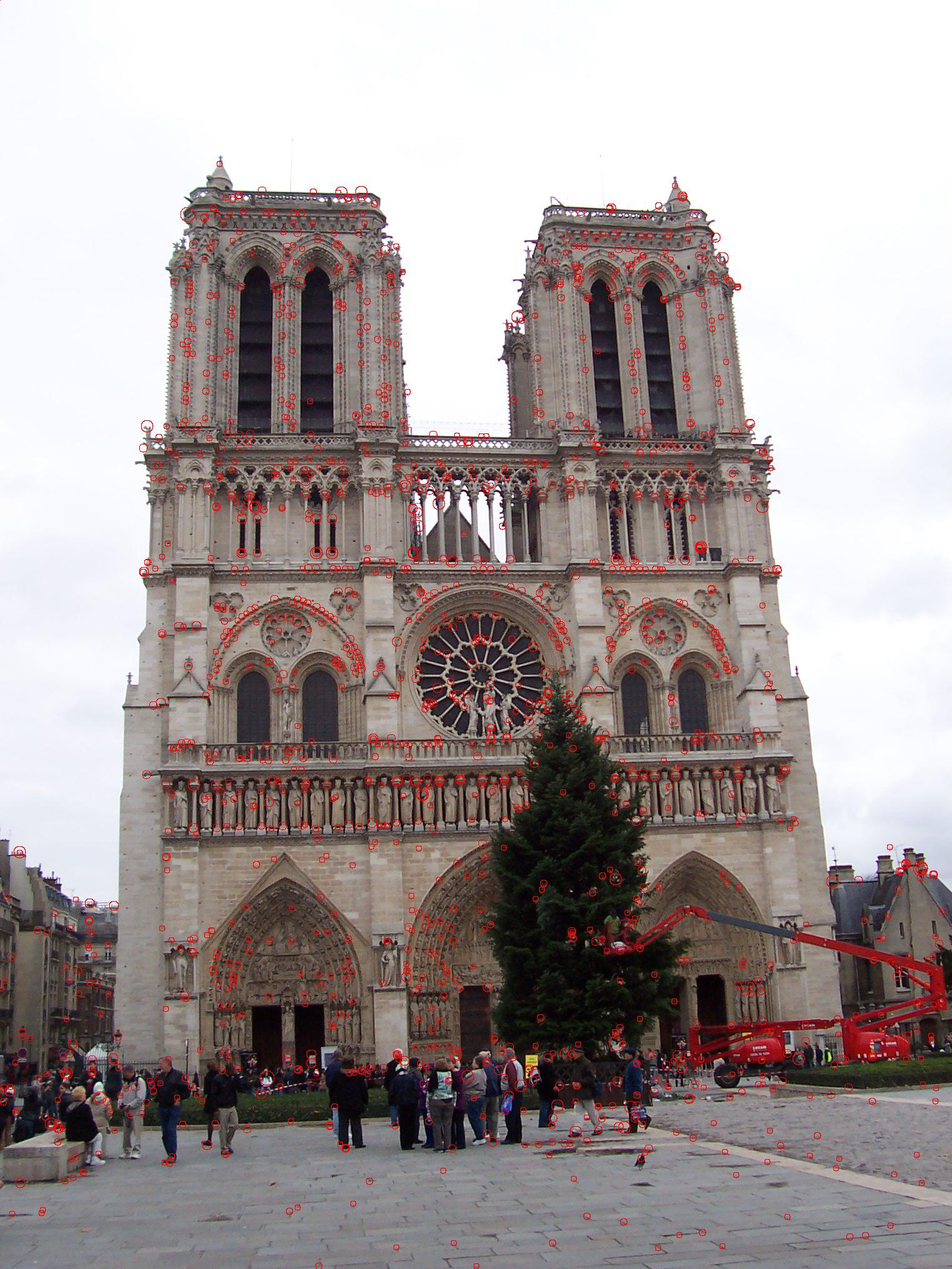
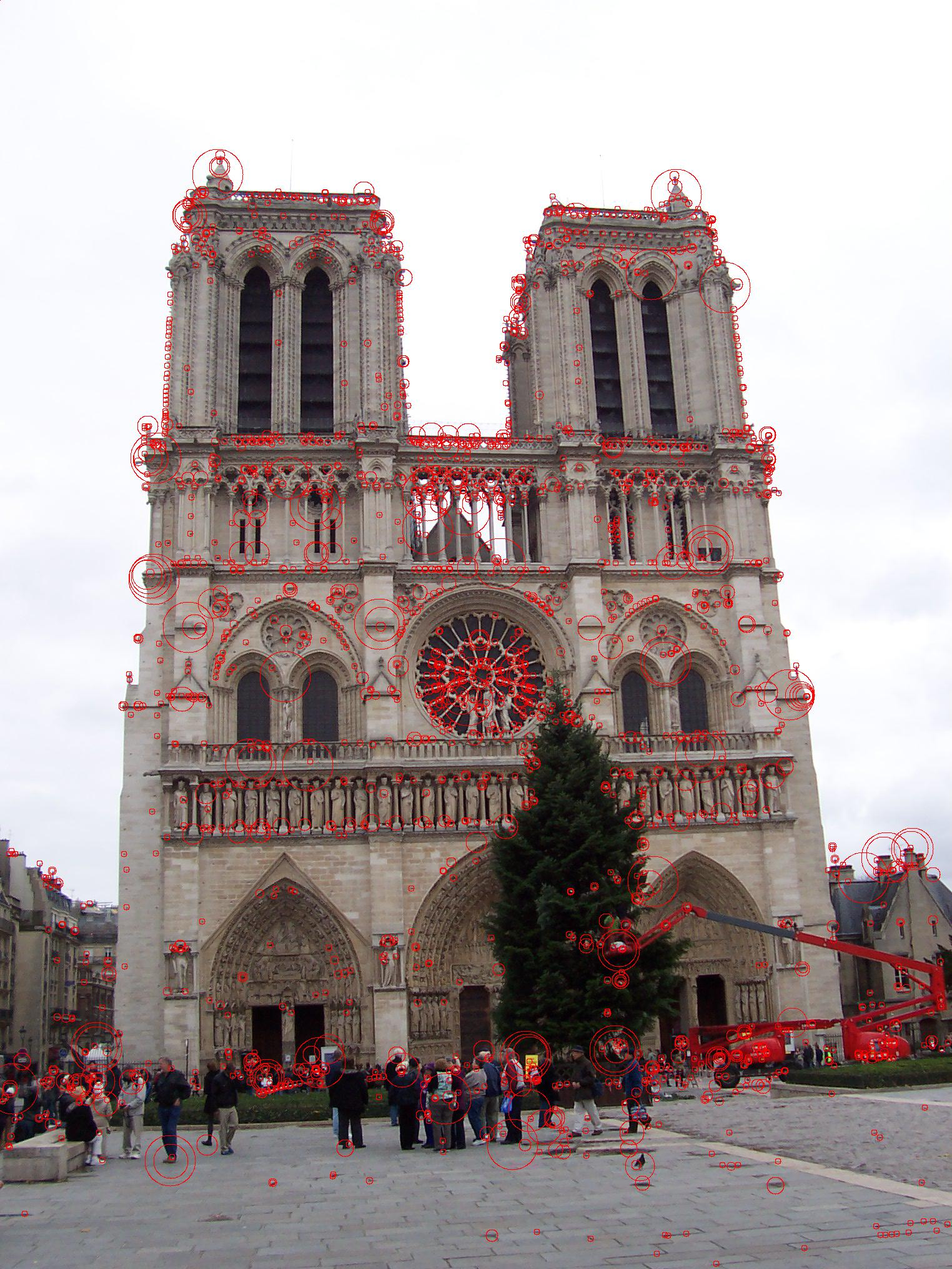
cornerness function change

diff --git a/Lab4/keypoints_detection.py b/Lab4/keypoints_detection.py
@@ -61,7 +61,7 @@ def harris_corner_detector(image, threshold, σ_I=5., s=0.7, α=0.05, print_info
     ndim.gaussian_filter(im_x ** 2, sigma=σ_I, output=gaussian_I_x_2)
     ndim.gaussian_filter(im_y ** 2, sigma=σ_I, output=gaussian_I_y_2)
     ndim.gaussian_filter(im_x * im_y, sigma=σ_I, output=gaussian_I_x_y)
-    cornerness = gaussian_I_x_2 * gaussian_I_x_2 - gaussian_I_x_y ** 2 - α * (gaussian_I_x_2 + gaussian_I_y_2) ** 2
+    cornerness = σ_D ** 2 * (gaussian_I_x_2 * gaussian_I_x_2 - gaussian_I_x_y ** 2 - α * (gaussian_I_x_2 + gaussian_I_y_2) ** 2)
     points_over_threshold = np.argwhere(cornerness > threshold)
     if print_info:
         print('Maximal and minimal cornerness values: ', cornerness.max(), cornerness.min())
@@ -70,7 +70,7 @@ def harris_corner_detector(image, threshold, σ_I=5., s=0.7, α=0.05, print_info
 
 def harris_corner_with_simple_filtering(image, threshold=1e2):
     '''Detecting interesting points with Harris corner detector
-       using easy local maxima requirement'''
+       using simple local maxima requirement'''
     points, cornerness = harris_corner_detector(image, threshold)
     return find_local_maxima(points, cornerness)
 
@@ -81,6 +81,8 @@ def harris_corner_with_ANMS(image, number_of_output_points, threshold=1e2, coeff
     return adaptive_non_maximal_suppression(points, cornerness, number_of_output_points, coeff)
 
 def harris_laplace(image, laplace_threshold, harris_threshold, σ_init, σs_num, σ_step):
+    '''Detecting interesting points with Harris-Laplace
+       cornar detector using simple local maxima requirement'''
     keypoints_candidates = []
 
     # find local maxima of harris function
@@ -92,16 +94,25 @@ def harris_laplace(image, laplace_threshold, harris_threshold, σ_init, σs_num,
     laplace = np.zeros((σs_num, image.shape[0], image.shape[1]))
     for i in range(σs_num):
         ndim.gaussian_laplace(image, σ_init * σ_step ** i, output=laplace[i,:,:])
+        laplace[i,:,:] *= (σ_init * σ_step ** i) ** 2
         print(laplace[i].min(), laplace[i].max())
     
     # find local extremas over scales of laplace function
+    kp = keypoints_candidates[0] # first and last scales must be treated separately
+    kp = kp[np.abs(laplace[0,kp[:,0],kp[:,1]]) > laplace_threshold]
+    keypoints_candidates[0] = kp[(((laplace[0] - laplace[1])[kp[:,0],kp[:,1]] < 0) & ((laplace[0] - laplace[2])[kp[:,0],kp[:,1]] < 0)) |
+                                     (((laplace[0] - laplace[1])[kp[:,0],kp[:,1]] > 0) & ((laplace[0] - laplace[2])[kp[:,0],kp[:,1]] > 0))]
+    kp = keypoints_candidates[-1]
+    kp = kp[np.abs(laplace[-1,kp[:,0],kp[:,1]]) > laplace_threshold]
+    keypoints_candidates[-1] = kp[(((laplace[-1] - laplace[-2])[kp[:,0],kp[:,1]] < 0) & ((laplace[-1] - laplace[-3])[kp[:,0],kp[:,1]] < 0)) |
+                                     (((laplace[-1] - laplace[-2])[kp[:,0],kp[:,1]] > 0) & ((laplace[-1] - laplace[-3])[kp[:,0],kp[:,1]] > 0))]
     for i in range(1, σs_num-1):
         kp = keypoints_candidates[i]
         kp = kp[np.abs(laplace[i,kp[:,0],kp[:,1]]) > laplace_threshold]
         keypoints_candidates[i] = kp[(((laplace[i] - laplace[i-1])[kp[:,0],kp[:,1]] < 0) & ((laplace[i] - laplace[i+1])[kp[:,0],kp[:,1]] < 0)) |
                                      (((laplace[i] - laplace[i-1])[kp[:,0],kp[:,1]] > 0) & ((laplace[i] - laplace[i+1])[kp[:,0],kp[:,1]] > 0))]
 
-    return keypoints_candidates[1:-1]
+    return keypoints_candidates
 
 def draw_points_with_scale_markers(filename, points, fill, new_filename, scale_init, scale_step):
     im = Image.open(filename)
@@ -186,6 +197,7 @@ def filter_low_contrast_keypoints(keypoints, diff, threshold=7.65, eigenvals_rat
 
 
     # this version returns more points but it's using 3D (scale included) hessian and gradient instead of 2D
+    
     # hess_after_thresholding = keypoint_hess[np.abs(extr_values) > threshold,:,:]
     # hess_det_after_thresholding = hess_det[hess_det != 0][np.abs(extr_values) > threshold]
     # # print(keypoints_after_thresholding.shape, hess_after_thresholding.shape, hess_det_after_thresholding.shape)
@@ -314,51 +326,52 @@ def detect_with_DoG():
     print('Found keypoints shape: ', keypoints.shape, '\n\n\n')
     draw_image_with_points('data/Notre_Dame/ND_2.jpg', np.fliplr(keypoints), (255,0,0), 'data/Notre_Dame/DoG2.jpg')
 
-detect_with_DoG()
+# detect_with_DoG()
 
 def detect_with_harris_laplace():
     print('Harris-Laplace')
     image = imageio.imread('data/Episcopal_Gaudi/EG_1_gray.jpg')
-    keypoints = harris_laplace(image, 1., 1e2, 1.5, 13, 1.2)
+    keypoints = harris_laplace(image, 20., 1e2, 1.5, 13, 1.2)
     # print('Found keypoints shape: ', keypoints.shape, '\n\n\n')
     draw_points_with_scale_markers('data/Episcopal_Gaudi/EG_1.jpg', keypoints, (255,0,0), 'data/Episcopal_Gaudi/Harris-Laplace1.jpg', 1.5, 1.2)
 
 
     print('Harris-Laplace')
     image = imageio.imread('data/Episcopal_Gaudi/EG_2_gray.jpg')
-    keypoints = harris_laplace(image, 1., 1e2, 1.5, 13, 1.2)
+    keypoints = harris_laplace(image, 15., 1e2, 1.5, 13, 1.2)
     # print('Found keypoints shape: ', keypoints.shape, '\n\n\n')
     draw_points_with_scale_markers('data/Episcopal_Gaudi/EG_2.jpg', keypoints, (255,0,0), 'data/Episcopal_Gaudi/Harris-Laplace2.jpg', 1.5, 1.2)
 
 
     print('Harris-Laplace')
     image = imageio.imread('data/Mount_Rushmore/MR_1_gray.jpg')
-    keypoints = harris_laplace(image, 1., 1e2, 1.5, 13, 1.2)
+    keypoints = harris_laplace(image, 13., 1e2, 1.5, 13, 1.2)
     # print('Found keypoints shape: ', keypoints.shape, '\n\n\n')
     draw_points_with_scale_markers('data/Mount_Rushmore/MR_1.jpg', keypoints, (255,0,0), 'data/Mount_Rushmore/Harris-Laplace1.jpg', 1.5, 1.2)
 
 
     print('Harris-Laplace')
     image = imageio.imread('data/Mount_Rushmore/MR_2_gray.jpg')
-    keypoints = harris_laplace(image, 1., 1e2, 1.5, 13, 1.2)
+    keypoints = harris_laplace(image, 15., 1e2, 1.5, 13, 1.2)
     # print('Found keypoints shape: ', keypoints.shape, '\n\n\n')
     draw_points_with_scale_markers('data/Mount_Rushmore/MR_2.jpg', keypoints, (255,0,0), 'data/Mount_Rushmore/Harris-Laplace2.jpg', 1.5, 1.2)
 
 
     print('Harris-Laplace')
     image = imageio.imread('data/Notre_Dame/ND_1_gray.jpg')
-    keypoints = harris_laplace(image, 1., 1e2, 1.5, 13, 1.2)
+    keypoints = harris_laplace(image, 20., 1e2, 1.5, 13, 1.2)
     # print('Found keypoints shape: ', keypoints.shape, '\n\n\n')
     draw_points_with_scale_markers('data/Notre_Dame/ND_1.jpg', keypoints, (255,0,0), 'data/Notre_Dame/Harris-Laplace1.jpg', 1.5, 1.2)
 
 
     print('Harris-Laplace')
     image = imageio.imread('data/Notre_Dame/ND_2_gray.jpg')
-    keypoints = harris_laplace(image, 1., 1e2, 1.5, 13, 1.2)
+    keypoints = harris_laplace(image, 20., 1e2, 1.5, 13, 1.2)
     # print('Found keypoints shape: ', keypoints.shape, '\n\n\n')
     draw_points_with_scale_markers('data/Notre_Dame/ND_2.jpg', keypoints, (255,0,0), 'data/Notre_Dame/Harris-Laplace2.jpg', 1.5, 1.2)
 
-# detect_with_harris_laplace( )
+detect_with_harris_laplace()
+
 # image = np.array(Image.open('/home/dominik/Dokumenty/Studia/CVandPhotogrammetry/piesek/IMG_0161.JPG', 'r').convert('L'))
 # keypoints = harris_corner_with_ANMS(image, 1500, threshold=5e1)
 # print(keypoints.shape)
